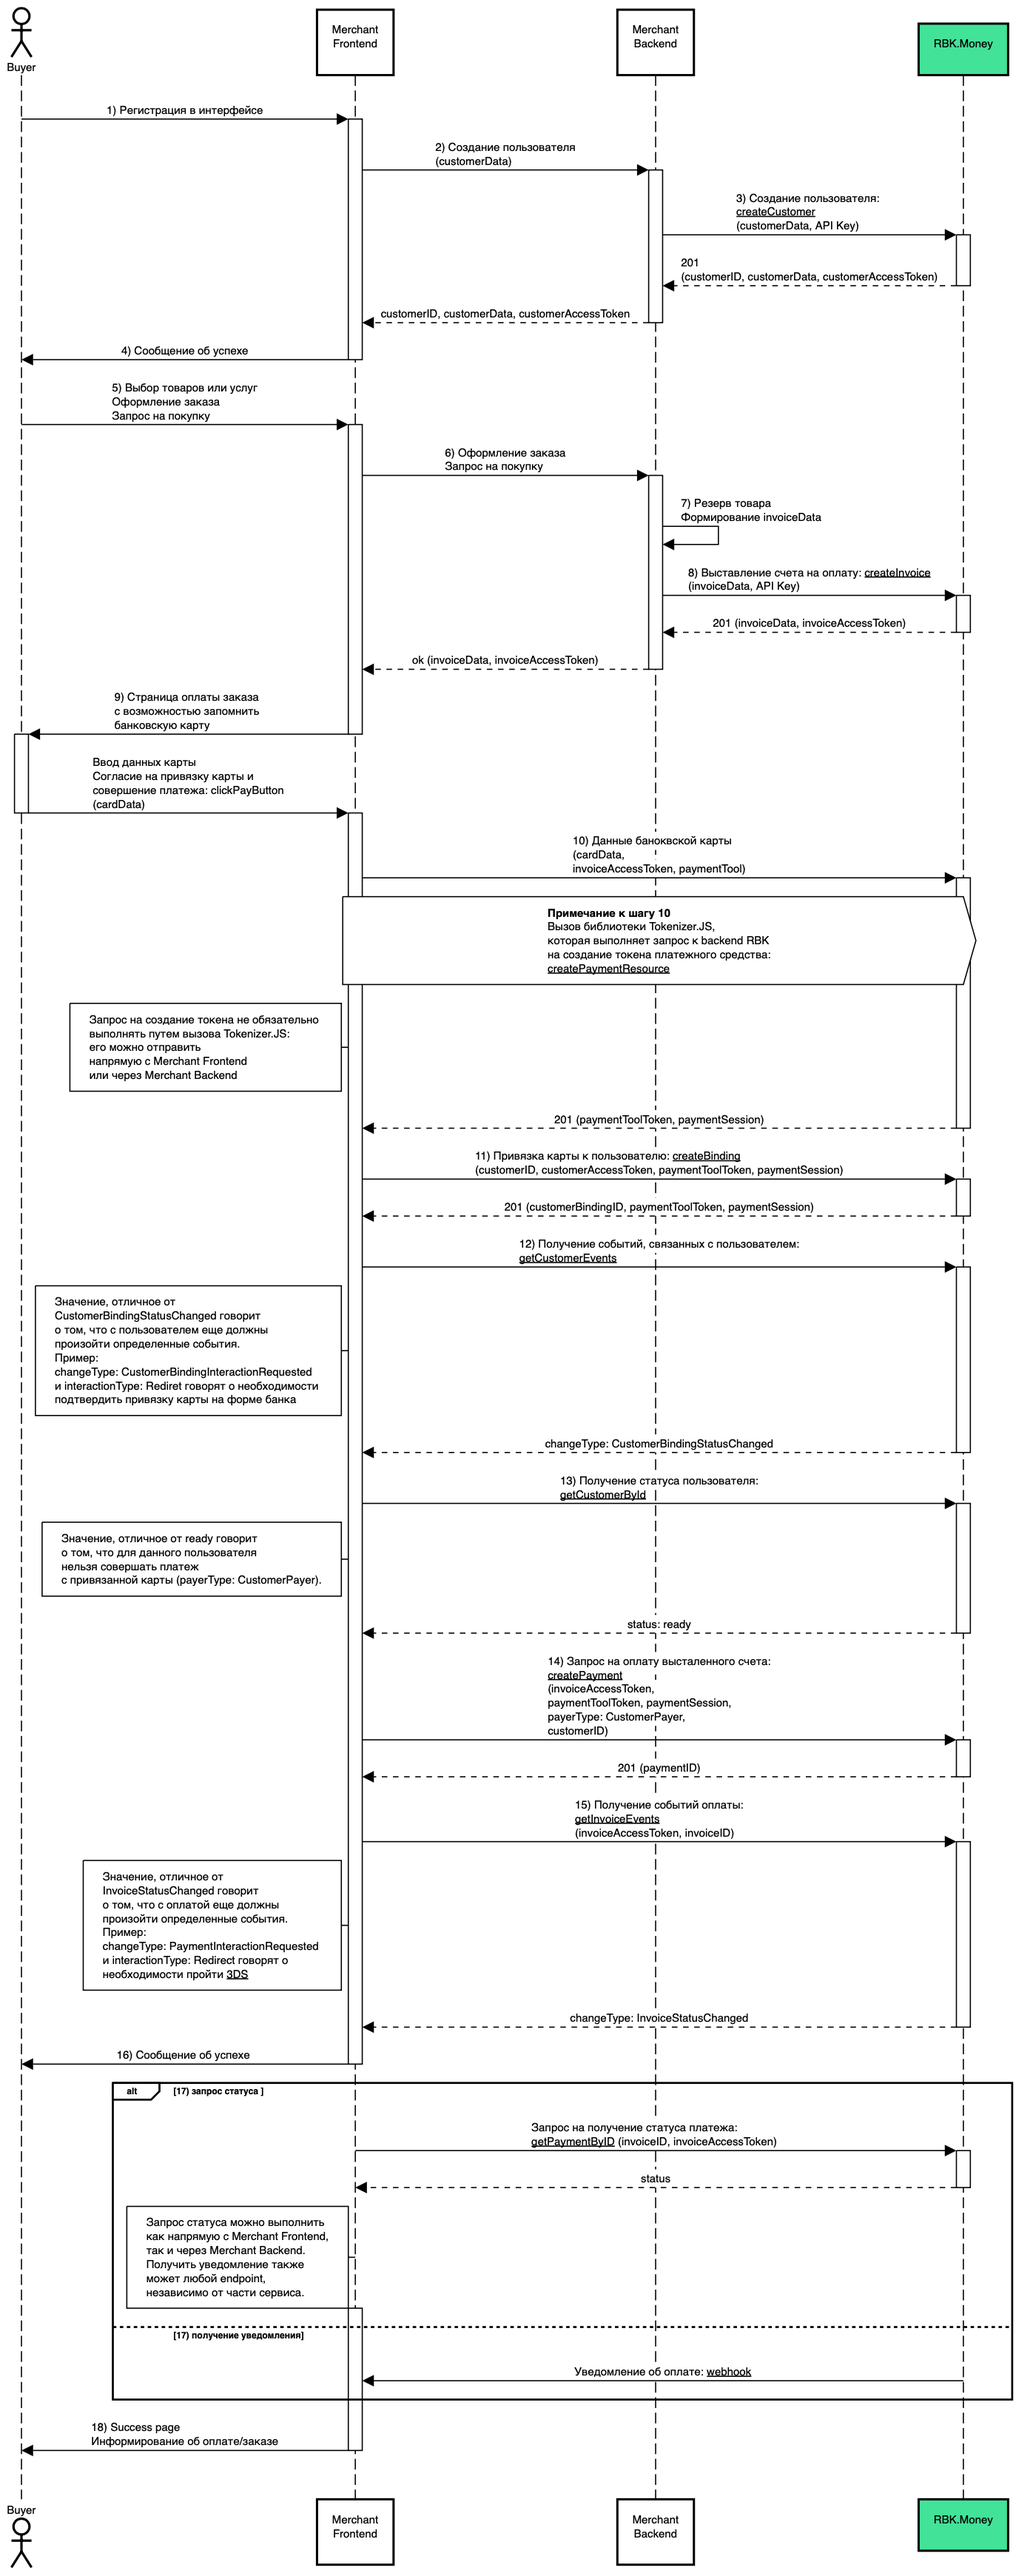
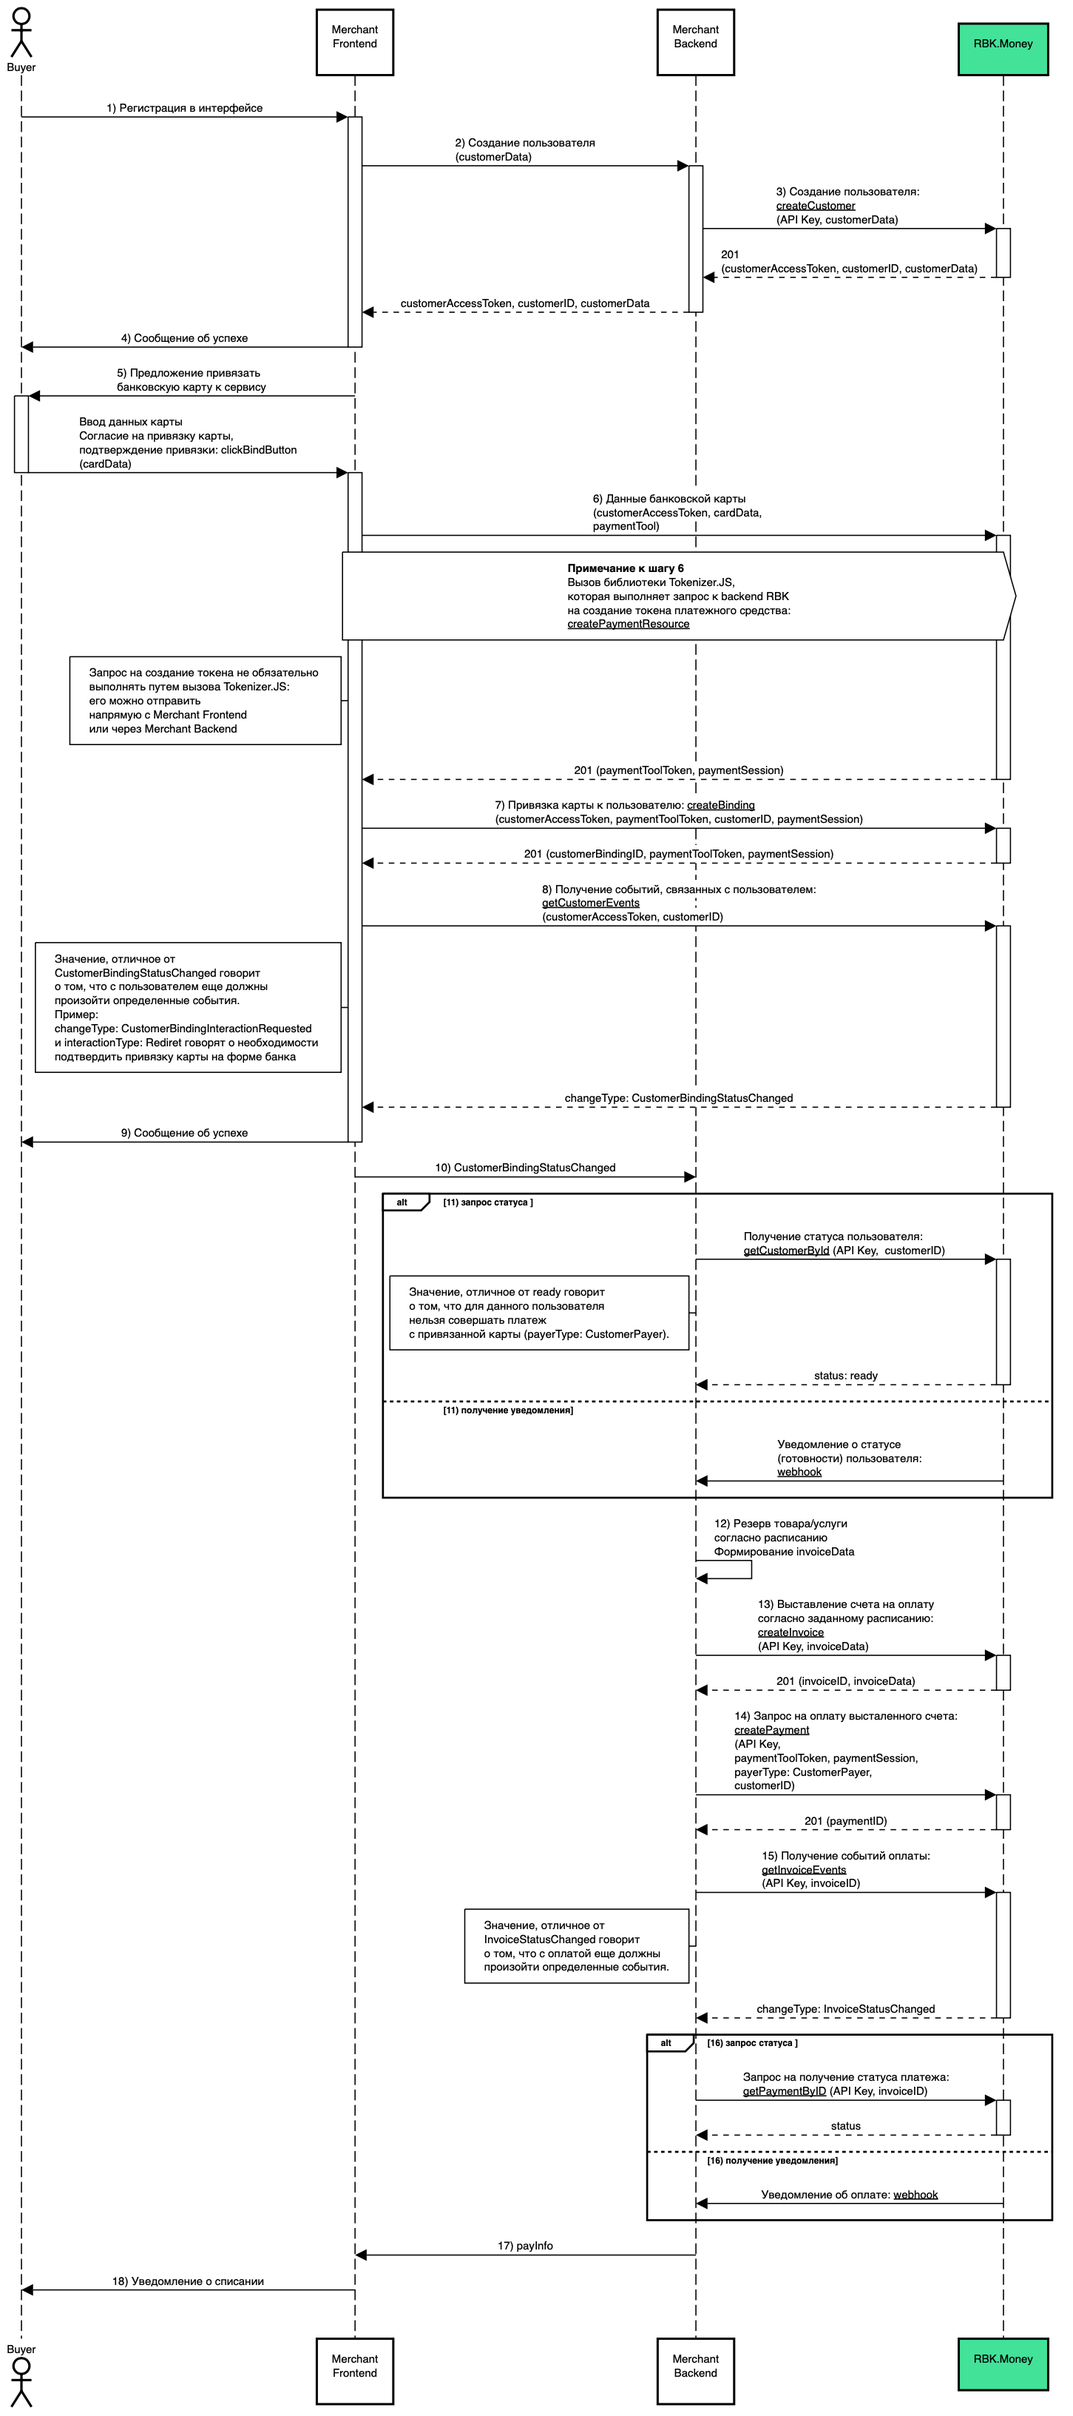
adding schema

diff --git a/content/docs/payments/recurring/recurring.md b/content/docs/payments/recurring/recurring.md
@@ -39,7 +39,7 @@ category: pay
 
 #### Сценарий с использованием платежной формы мерчанта {#merchPayFormParent}
 
-Ниже описан сценарий проведения рекуррентного платежа в случае, когда покупка производится с формы оплаты мерчанта (не с [формы RBK.money](https://developer.rbk.money/docs/payments/checkout)).
+Ниже описан сценарий проведения рекуррентного платежа в случае, когда покупка производится с формы оплаты [мерчанта](https://developer.rbk.money/docs/payments/overview/#lk) (не с [формы RBK.money](https://developer.rbk.money/docs/payments/checkout)).
 
 1. Инициировать родительский платеж: создать и оплатить [инвойс](https://developer.rbk.money/docs/payments/overview/#invoice) согласно [данной](https://developer.rbk.money/docs/payments/overview/#payScheme) схеме взаимодействия с [платформой](https://developer.rbk.money/docs/payments/overview/), но с учетом примечания ниже.
 2. Инициировать рекуррентный платеж: cоздать новый [инвойс](https://developer.rbk.money/docs/payments/overview/#invoice) и оплатить его аналогично [данной](https://developer.rbk.money/docs/payments/overview/#payScheme) схеме взаимодействия с [платформой](https://developer.rbk.money/docs/payments/overview/), но с учетом примечания ниже (используя идентификатор родительского инвойса и платежа).
@@ -85,7 +85,9 @@ category: pay
 
 #### Сценарий с использованием платежной формы мерчанта {#merchPayFormCard}
 
-Ниже представлен сценарий проведения рекуррентного платежа в случае, когда привязка карты и покупка производятся с формы мерчанта (не с [формы RBK.money](https://developer.rbk.money/docs/payments/checkout)).
+Ниже представлен сценарий проведения рекуррентного платежа в случае, когда привязка карты и покупка производятся с формы [мерчанта](https://developer.rbk.money/docs/payments/overview/#lk) (не с [формы RBK.money](https://developer.rbk.money/docs/payments/checkout)).
+
+Сценарий отражает процесс оформления подписки на товар или услугу.
 
 Названия представленных на схеме запросов указывают на конкретные методы платежного [API](https://developer.rbk.money/api/).
 
@@ -97,6 +99,7 @@ category: pay
 * Привязка карты требует подтверждения данного действия у банка-эмитента на соответствующей форме.
 * Получение, передача, обработка и хранение данных банковских карт влечет за собой необходимость соответствовать [определенным стандартам безопасности](https://ru.pcisecuritystandards.org/minisite/env2/).
 * На момент написания статьи для одного и того же пользователя ([покупателя](https://developer.rbk.money/docs/payments/overview/#shop), customerID) можно создать несколько привязок (customerBindingID). При этом активной будет являться лишь одна (самая последняя по дате создания) привязка. При проведении рекурректного платежа будет использована та банковская карта, с которой была создана последняя привязка.
+* Альтернативный сценарий использования привязанной карты отражен в [данной статье](../../examples/binding).
 
 #### Сценарий с использованием формы RBK.money {#rbkPayFormCard}
 

diff --git a/content/docs/payments/examples/binding.md b/content/docs/payments/examples/binding.md
@@ -1,0 +1,27 @@
+---
+title: Покупка с привязанной карты
+
+search: true
+
+metatitle: pay
+
+metadescription: bind
+
+category: pay
+
+---
+
+# Покупка с привязанной карты
+
+Ниже представлен один из возможных сценариев покупки с привязанной к сервису банковской карты.
+
+Сценарий отражает процесс взаимодействия с [платформой](https://developer.rbk.money/docs/payments/overview/) в случае, когда привязка и оплата совершаются с помощью формы [мерчанта](https://developer.rbk.money/docs/payments/overview/#lk) (не с помощью [формы RBK.money](https://developer.rbk.money/docs/payments/checkout)).
+
+Названия представленных на схеме запросов указывают на конкретные методы платежного [API](https://developer.rbk.money/api/).
+
+<a href="../../examples/img/CustomerPayer.png" data-lightbox="payScheme.png" data-title="payScheme.png"><img src="../../examples/img/CustomerPayer.png"></a>
+
+!!!note "Информация"
+    Получение, передача, обработка и хранение данных банковских карт влечет за собой необходимость соответствовать [определенным стандартам безопасности](https://ru.pcisecuritystandards.org/minisite/env2/).
+
+Альтернативный вариант использования привязанной карты описан в [данной](../../recurring/recurring) статье.
